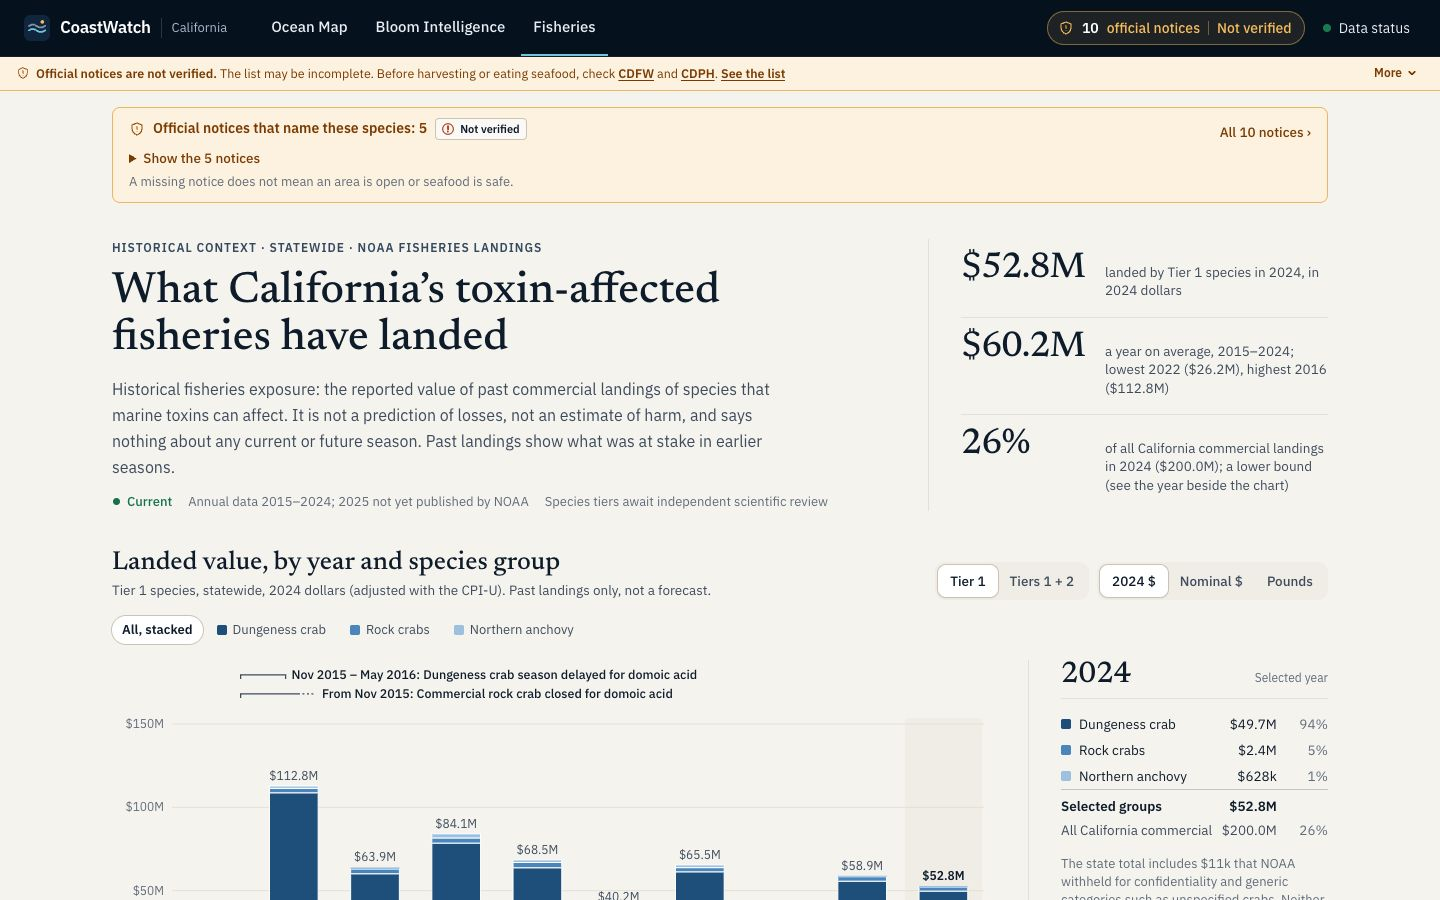
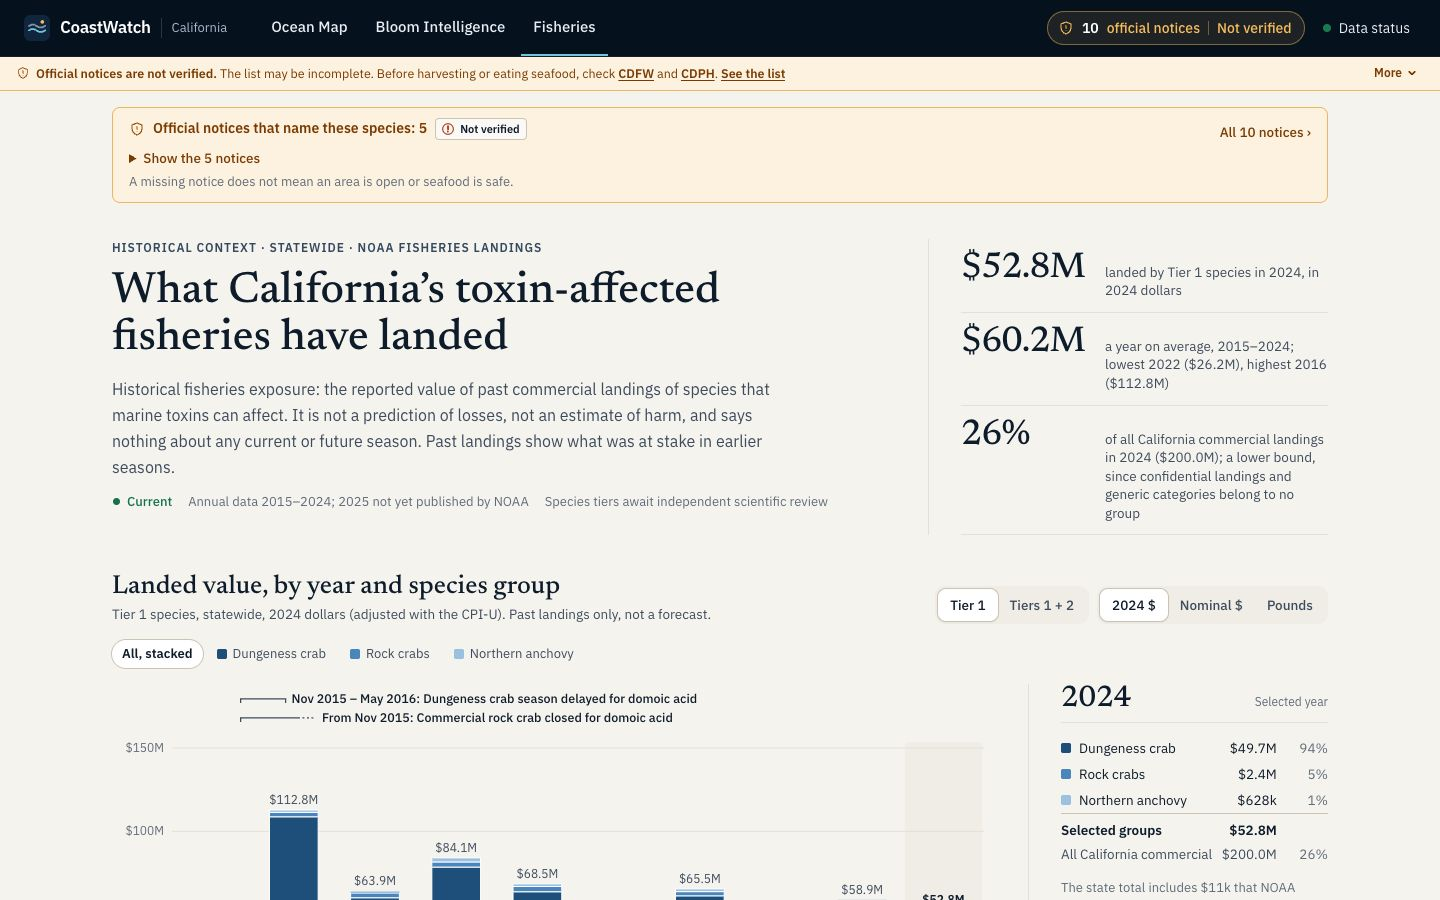
docs(coastwatch): M7 final review — corrected texts, phone opening, diagnostics
Records the two corrected source texts with their authorities, the phone
before and after, the Bloom audit investigation, and refreshed screenshots.

diff --git a/docs/coastwatch/23-m7-fisheries-brief.md b/docs/coastwatch/23-m7-fisheries-brief.md
@@ -1,6 +1,6 @@
 # M7: Fisheries & Economic Exposure — brief and implementation record
 
-**Status:** implemented on this branch (§8–§13); awaiting the owner's review before merge. §1–§7 are the original brief, kept as written; where the implementation departs from it, §9 says why.
+**Status:** implemented on this branch (§8–§14); awaiting the owner's review before merge. §1–§7 are the original brief, kept as written; where the implementation departs from it, §9 says why.
 
 **Baseline:**
 - the approved design-reset spec §3.3 ([design-spec.md](https://github.com/yashnil/habs-forecast/blob/archive/pr7-design-reset/docs/coastwatch/design-reset/design-spec.md#33-fisheries--economic-exposure));
@@ -173,9 +173,11 @@ The recommended option is in bold.
 
 Later season delays, such as those for whale entanglement risk, are not HAB events and are not marked. Nothing on the page attributes a change in landings to an event. Unit tests forbid causal wording in event text, and the browser tests check every sentence with all disclosures open.
 
-**Findings in published data, deferred.** These are pipeline text; changing them would change the production dataset, which needs separate approval.
-1. **The `withheld[].note` string is wrong.** It says the withheld amount is "not included in group or statewide values". The pipeline includes it in the statewide total (its `method.withheld` says so, and the code does). The page never shows that note; it states the correct relationship. Proposed fix: one string in `pipeline/coastwatch_pipeline/sources/fisheries.py`.
-2. **The rock crab `tier_basis` says the closure is "north of 40° N".** The official record's title is "40°00′ N to 40°30′ N". The page shows both: the basis as published, and the notice title from the registry.
+**Two errors in the published text, now corrected** (approved 2026-10-11). Only the text changed; the numbers are identical, as the regenerated fixtures confirm.
+1. **The `withheld[].note`** said confidential landings are "not included in group or statewide values". NOAA's FOSS caveats say "Total landings by state include confidential data and will be accurate", and the pipeline's totals already include them. The note now reads: included in the statewide total, not attributable to any species or group.
+2. **The rock crab `tier_basis`** said "north of 40° N". CDFW's health-advisories page (checked 2026-10-11) gives the commercial closure as "from the Mendocino/Humboldt county line (40° 00.00' N. lat.) to Cape Mendocino, Humboldt County (40° 30.00' N. lat.)". The basis now quotes those limits.
+
+Pipeline tests tie both texts to how the totals are built and to the notice limits. A staging run from this branch checks the result on real data. The production dataset changes only at the first scheduled refresh after the merge.
 
 ## 10. What was built
 
@@ -264,7 +266,7 @@ Captures: [m7/after/](m7/after/) at 1440×900, 1280×720, 1024×768 and 390×844
 | Check | Result |
 |---|---|
 | Web unit (vitest) | 157 passed (21 new in `m7.test.ts`; the M3 copy test now also checks the new list copy) |
-| Browser (Playwright, local Chrome and CI mode) | 143 passed (14 new in `m7.spec.ts`; the M3 Fisheries test ported to the new structure with the same or stricter checks) |
+| Browser (Playwright, local Chrome and CI mode) | 144 passed (15 new in `m7.spec.ts`; the M3 Fisheries test ported to the new structure with the same or stricter checks) |
 | Pipeline (pytest) | 196 passed; `build_fisheries_geo.py` passes ruff |
 | Typecheck, lint, production build | Clean; 0 build warnings |
 | Axe (1440, 1024, 390; detail open; pounds) | No violations of any severity |
@@ -281,10 +283,20 @@ Captures: [m7/after/](m7/after/) at 1440×900, 1280×720, 1024×768 and 390×844
 
 The map and its CDFW points load only near the screen, and the 80-cell values table is built only when opened. No chart or map library is added.
 
-## 13. Remaining limitations
+## 13. Final review (2026-10-11)
 
-- **The phone chart** sits about two screens down, after the notices, the opening and the three figures. A shorter phone opening is possible but would drop figures.
-- **The two deferred pipeline text corrections** in §9.
+- **The phone opening is compact, with nothing dropped** ([before](m7/review/phone-first-screen-before.jpg), [after](m7/review/phone-first-screen-after.jpg)).
+  - The three figures sit in one row with short captions; their full sentences are one tap away.
+  - The notices heading leads with the count, and the "Not verified" badge stays on one line.
+  - The meta line still says the species tiers await review.
+  - The legend is one row that scrolls sideways.
+  - The figures and the chart title are on the first screen. The chart starts at 995 px instead of 1,273 and is fully visible after one scroll.
+- **The Bloom audit failure** (one run of 18/20 right after a server restart) did not recur in 14 runs, 10 of them from a cold start.
+  - The audit now saves a screenshot, the URL, console errors, failed requests and timing for any failed check.
+  - The browser test suite keeps a trace and screenshot for every failure, and CI uploads them.
+
+## 14. Remaining limitations
+
 - **Port-area values** wait on CDFW's answer to the F3 request.
 - **Tiers** await independent HAB scientific review.
 - **NOAA revises** recent years.
